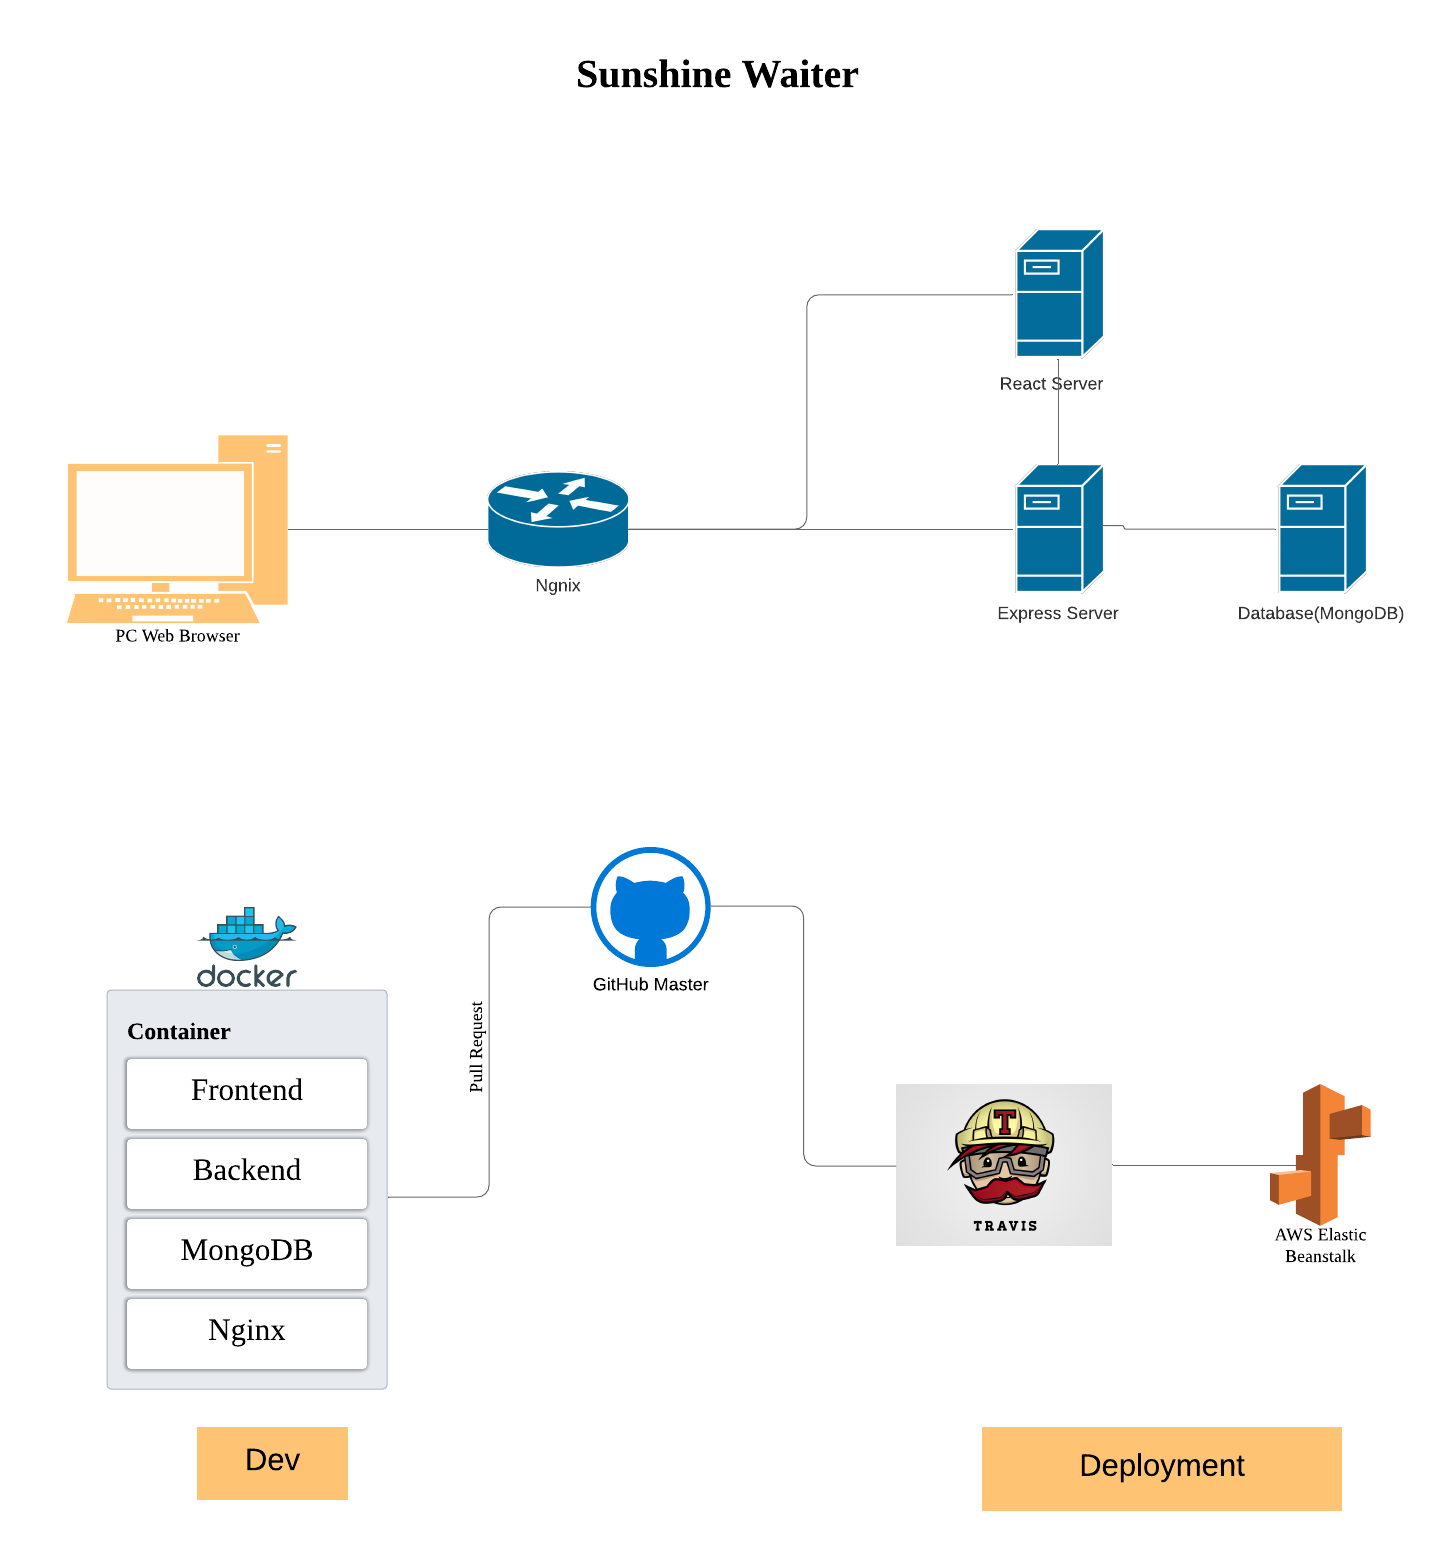
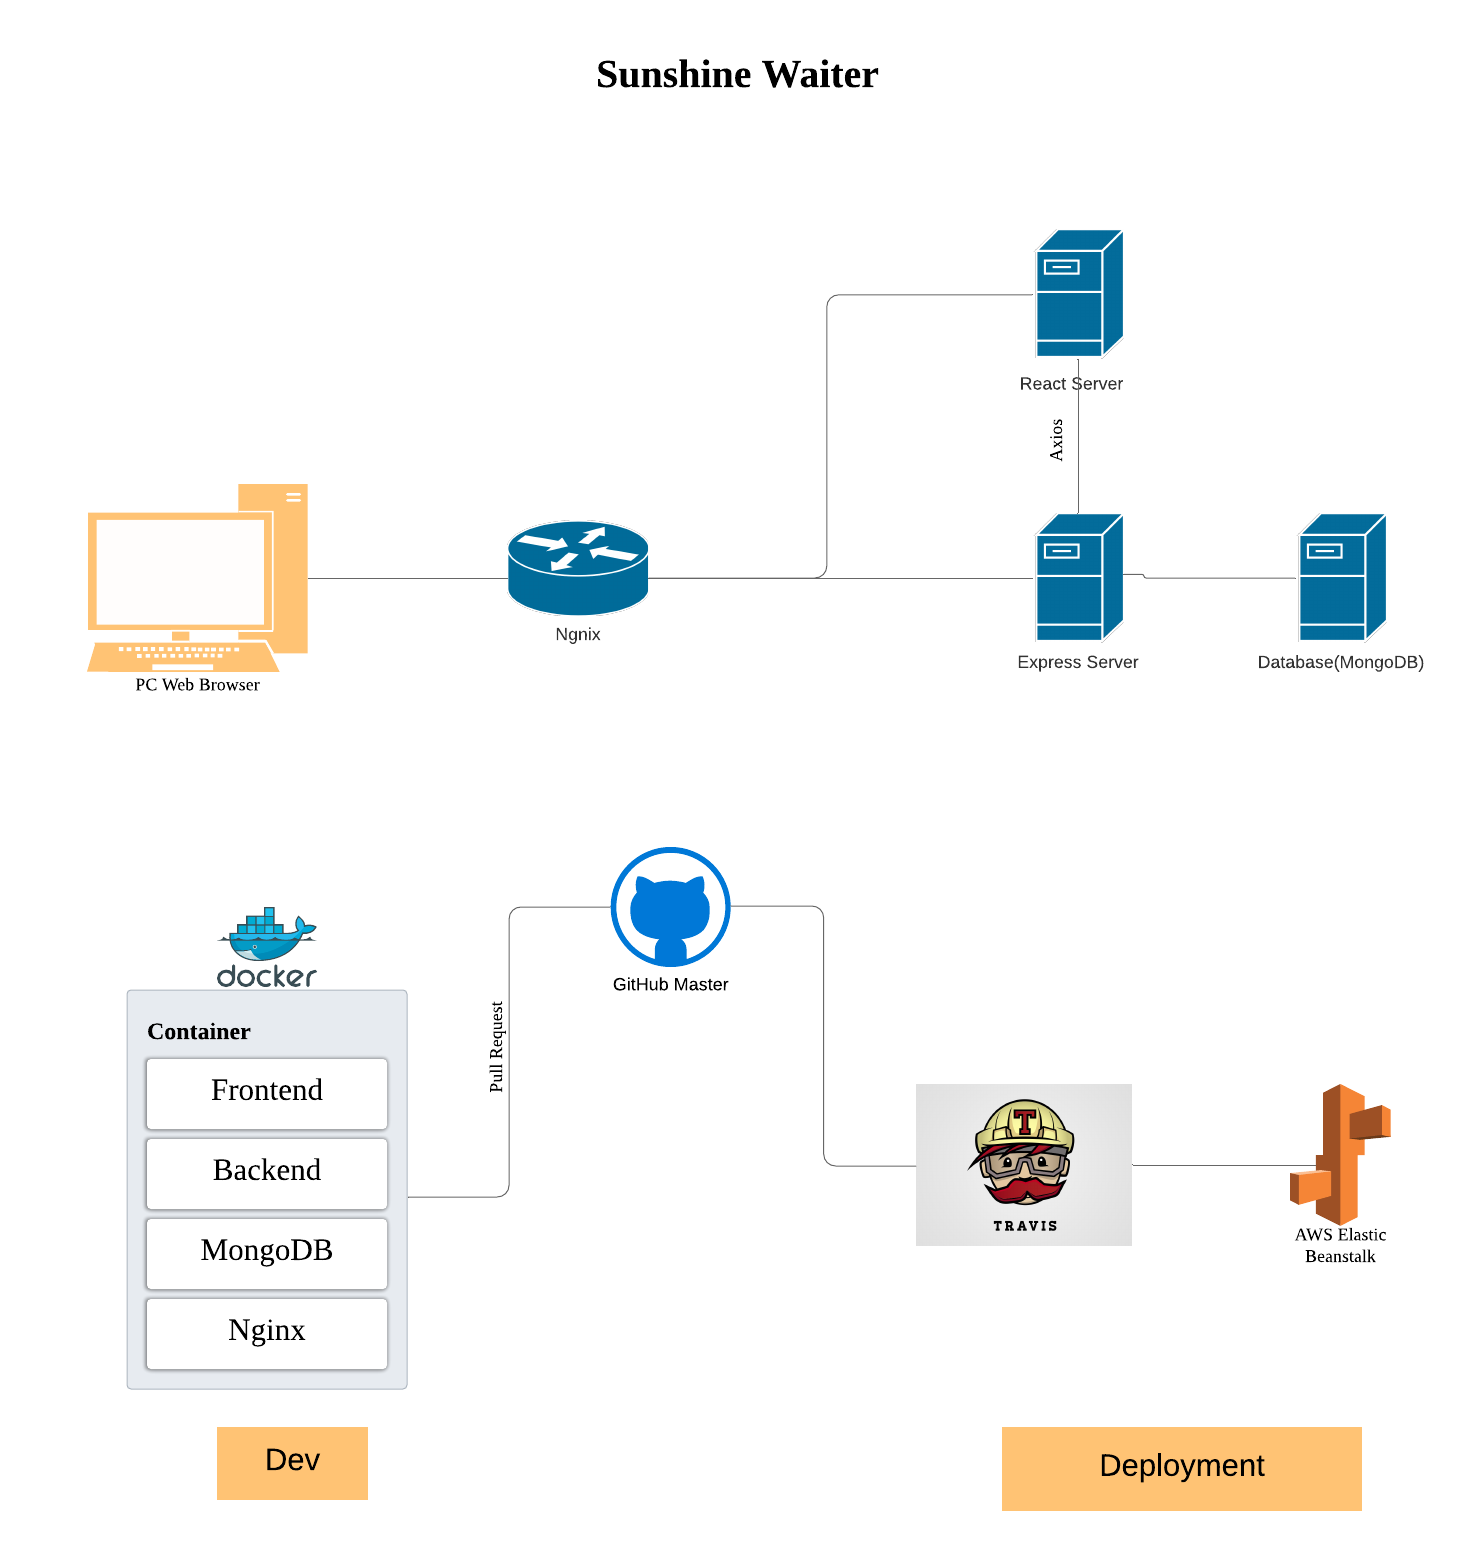
Update proposal

diff --git a/system_design/proposal.md b/system_design/proposal.md
@@ -30,7 +30,7 @@ The app is designed specifically for Mcdonald's customers. Other restaurant mana
 
 ### 3. MenuDrive
 
-This website provides a service that can transfer your traditional menu into an interactive online menu by just sending them the pictures, so No HTML or programming knowledge is required. Once the system is implemented into your restaurant, it can handle multiple order types like a pickup, delivery, curbside and dine-in.
+This website provides a service that can transfer your traditional menu into an interactive online menu by just sending them the pictures, so no HTML or programming knowledge is required. Once the system is implemented into your restaurant, it can handle multiple order types like a pickup, delivery, curbside and dine-in.
 
 **Drawbacks:**
 Every customer who wants to order something has to sign in with his/her e-mail or other social accounts. So on the side of customers, their personal information might be used for marketing promotions like advertising and customers may also find it cumbersome because sometimes they just want a fast meal ("Why do I have to sign in just for a hot dog?").
@@ -46,19 +46,19 @@ High pricing. Same potential problems as MenuDrive.
 
 ## Purpose of the system and features
 
-When people go out for a meal, sometimes they need to wait for a long time to place order in peak time. Too long waiting time may make them feel frustrated and unhappy. In order to control the waiting time, the restuarant has to employee more waiters , which will increase the financial burden.
+When people go out for a meal, sometimes they need to wait for a long time to place order in peak time. Too long waiting time may make them feel frustrated and unhappy. In order to control the waiting time, the restuarant has to hire more waiters, which will increase the financial burden.
 
-Therefore, our product "waiter" is proposed to address these issues.we are aiming to create a useful system that benefits both customer and resturant.
+Therefore, our product "waiter" is proposed to address these issues as well as the drawbacks mentioned above in the existing competitors. we are aiming to create a useful and easy-to-use ordering system that benefits both customer and resturant.
 
-For customers, our system provides functions of placing orders online and requesting assistance from a waiter.
+For customers, our system provides functions of placing orders online and requesting assistance from a waiter without registration.
 
 For restuarant, our product provides different **pages** according to different roles including waiter, kitchen staff and mananger, which is as following:
 
-1. The page for waiter allows them to get request from customer and mark as completed once it is dealed with.Besides, it allows them to deal with the prepared order from kitchen and serve it to customer.
+1. The page for waiter allows to get request from customer and mark as completed once it is hanlded. Besides, it allows them to deal with the prepared order from kitchen and serve it to customer.
 2. The page for kitchen provides kitchen staff a time-sorted list of customer orders and allow them to mark an order item as prepared once it is ready for serving.
-3. The page for manager allow them to create ,update,delete menu. With an easy menu tool, the manager can quickly add items to site complete with high resolution images,description,pricing, category and more. And also, the manager can update the order of menu items or categories.
+3. The page for manager allows to create, update, delete menu. With a menu editting tool, the manager can easily and quickly add items to site completing with high resolution images, description, pricing, category and more. And also, the manager can update the sequence of menu items or categories.
 
-During the brainstorming, we think of many other functions, including payment and marketing analysis. Due to the relative complicated implementation and time limitation, we decide to let customers go to the front counter to pay instead of paying online. Besides, the marketing analysis includes data collection and analysis, which is relative time-consuming. Therefore, this part is out of our scope.
+During the brainstorming, we think of many other features, including payment and marketing analysis. Due to the relative complicated implementation and time limitation, we decide to let customers go to the front counter to pay instead of paying online. Besides, the marketing analysis includes data collection and analysis, which is relative time-consuming. Therefore, this part is out of our scope.
 
 ## Epics
 
@@ -67,23 +67,39 @@ In this project, we have four main epics including basic, core , management and 
 
 ### 1. Basics
 
-As basic part of our application, we will realize two main functions: adminstration and authentication, menu presentation.
+As basic part of our application, we will realize two main functions: adminstration and authentication for the resturant side, menu presentation.
 
 ### 2. Core
 
-After defining the main structure, we will set up 4 main functions: dishes-to-cook for kitchen, place order for customer,dishes-to-serve for waiter, menu builder for manager.
+After defining the main structure, we will set up 4 main functions: dishes-to-cook for kitchen, order placing for customer, dishes-to-serve for waiter, menu builder for manager.
 
 ### 3. Management
 
-After finishing the main body of the system, this epic will add three functions: assistance request between customer and waiter,orderers management for manager,dashboard for manager.
+After finishing the main body of the system, this epic will add three functions: assistance request from customer, orders management and dashboard for manager.
 
 ### 4. Analysis
 
-This epic will analyse the order data to arrange work schedule more suitabley and have a reasonable recuritment plan.
+This epic will analyse the order data to arrange work schedule more effectively and reasonably, and have a reasonable recuritment plan.
 
 ## Software architecture
 
 ![](proposal.assets/Softeware_Architecture.png)
+
+### Overview of this application
+
+This high level of this application is quite straightforward. We use nginx to route the requests from browser to React server or Express server, and use axios to make the http request and handle the CRUD operations. MongoDB is used as the database to store all the data due to its convenience and non-relational property.
+
+### Workflow of Development and Deployment
+
+-   The developement phase
+
+We will follow the industrial workflow using github to host all our codes and use pull request to push our work to the master to avoid our master being contaminated.
+
+All coding work will be run in the docker image to ease the running of the developing environment.
+
+-   The deployment phase
+
+This application will be hosted on AWS Elastic Beanstalk. We use travis CI to build projects and integrate service between github and AWS EB.
 
 ## Service design
 
